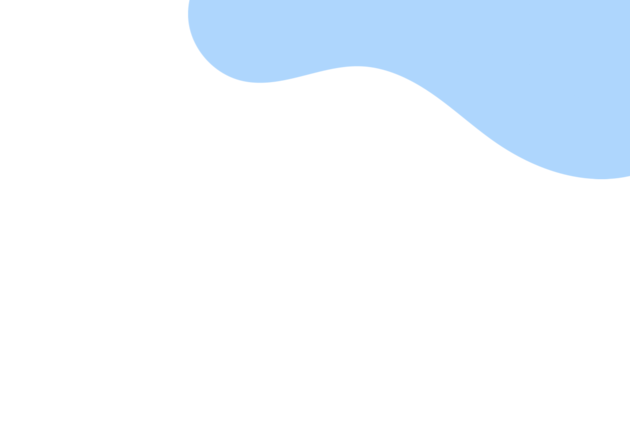
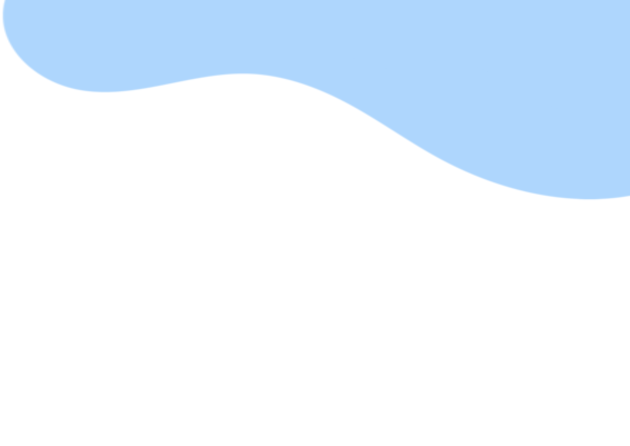
[ADD]물웅덩이에 wave animation 추가

Changed region(s): [[0.0, 0.0, 1.0, 0.4664]]

diff --git a/client/src/components/Start.css b/client/src/components/Start.css
@@ -1,5 +1,12 @@
 
-/*병아리 관련 css*/
+/* 로고 폰트*/
+@font-face {
+  font-family: "Continuous";
+  font-weight: 50;
+  src: url("../fonts/continuous.ttf");
+}
+
+
 .start-page {
   position: relative;
   object-fit: contain;
@@ -10,6 +17,7 @@
   
 }
 
+/*병아리 관련 css*/
 .chick{
   position: fixed;
   bottom: 0;
@@ -40,8 +48,6 @@
 }
 
 
-
-
   .drop {
     width: 40px; 
     height: 40px; 
@@ -60,23 +66,62 @@
 
 /*로고 관련 css*/
 .logo {
-  font-size: 2rem; /* 로고의 크기 조절 */
+  font-family: "Continuous";
+  font-size: 450%; /* 로고의 크기 조절 */
   color: rgb(119, 73, 73); /* 로고의 색상 */
-  position: absolute; /* 로고의 위치를 절대적으로 설정 */
+  position: fixed; /* 로고의 위치를 절대적으로 설정 */
   top: 50%;
+  bottom: 10%;
   left: 50%;
+  right: 15%;
   transform: translate(-50%,-50%); /* 정확한 중앙 정렬을 위해 위치 조정 */
   z-index: 20; /* 물방울보다 상위에 위치하도록 z-index 설정 */
+  animation: fadeIn 3s ease-in-out 1s forwards;
 }
 
-/*물울덩이 관련 css*/
-.puddle {
-  width: 100%; /* 이미지 너비 조정 */
-  height: auto; /* 이미지 높이를 자동으로 설정하여 비율을 유지 */
-  position: absolute;
-  top: 0; /* 화면 상단에 위치 */
-  right: 0;
-  z-index: 5;
+@keyframes fadeIn {
+  from {
+    opacity: 0;
+  }
+  to {
+    opacity: 1;
+  }
 }
+
+
+
+/*물울덩이 관련 css*/
+
+/* WaveAnimation.css */
+.ocean {
+  height: 100%;
+  width: 100%;
+  position: absolute;
+  top: 0;
+  left: 0;
+  background: #ffffff;
+}
+
+.wave {
+  background: url('./puddle.png') repeat-x;
+  position: fixed;
+  width: 100%;
+  top: 0;
+  right: 0;
+  height: 250px;
+  transform: translate3d(0, 0, 0);
+  animation: wave 5s linear infinite, swell 10s ease-in-out infinite;
+}
+
+@keyframes wave {
+  0% { transform: translate3d(0, 0, 0); }
+  100% { transform: translate3d(-50px, 0, 0); }
+}
+
+@keyframes swell {
+  0%, 100% { transform: translate3d(0, -25px, 0); }
+  50% { transform: translate3d(0, 5px, 0); }
+}
+
 
 

diff --git a/client/src/components/Start.js b/client/src/components/Start.js
@@ -17,10 +17,12 @@ function Start() {
   useEffect(() => {
     const interval = setInterval(() => {
       setDrops(drops => [...drops, <Drop key={drops.length} />]);
-    }, 1000); // 1초마다 새로운 물방울 생성
+    }, 2000); 
 
     return () => clearInterval(interval); // 컴포넌트 언마운트 시 인터벌 클리어
   }, []);
+
+  
 
   return (
     <div className="start-page">
@@ -28,6 +30,9 @@ function Start() {
       <div className="logo">Meddy Baby</div>
       {drops}
       <img src={chick} alt="chick" className="chick" />
+      <div className="ocean">
+      <div className="wave"></div>
+    </div>
     </div>
   );
 }

diff --git a/client/src/components/start.js b/client/src/components/start.js
@@ -17,10 +17,12 @@ function Start() {
   useEffect(() => {
     const interval = setInterval(() => {
       setDrops(drops => [...drops, <Drop key={drops.length} />]);
-    }, 1000); // 1초마다 새로운 물방울 생성
+    }, 2000); 
 
     return () => clearInterval(interval); // 컴포넌트 언마운트 시 인터벌 클리어
   }, []);
+
+  
 
   return (
     <div className="start-page">
@@ -28,6 +30,9 @@ function Start() {
       <div className="logo">Meddy Baby</div>
       {drops}
       <img src={chick} alt="chick" className="chick" />
+      <div className="ocean">
+      <div className="wave"></div>
+    </div>
     </div>
   );
 }
